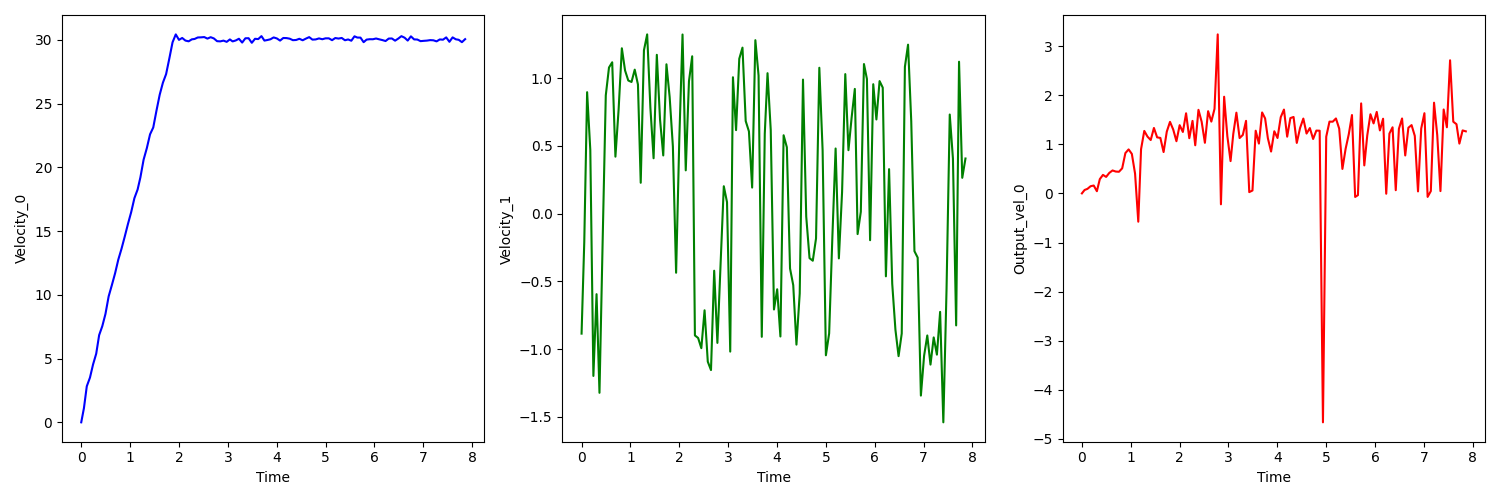
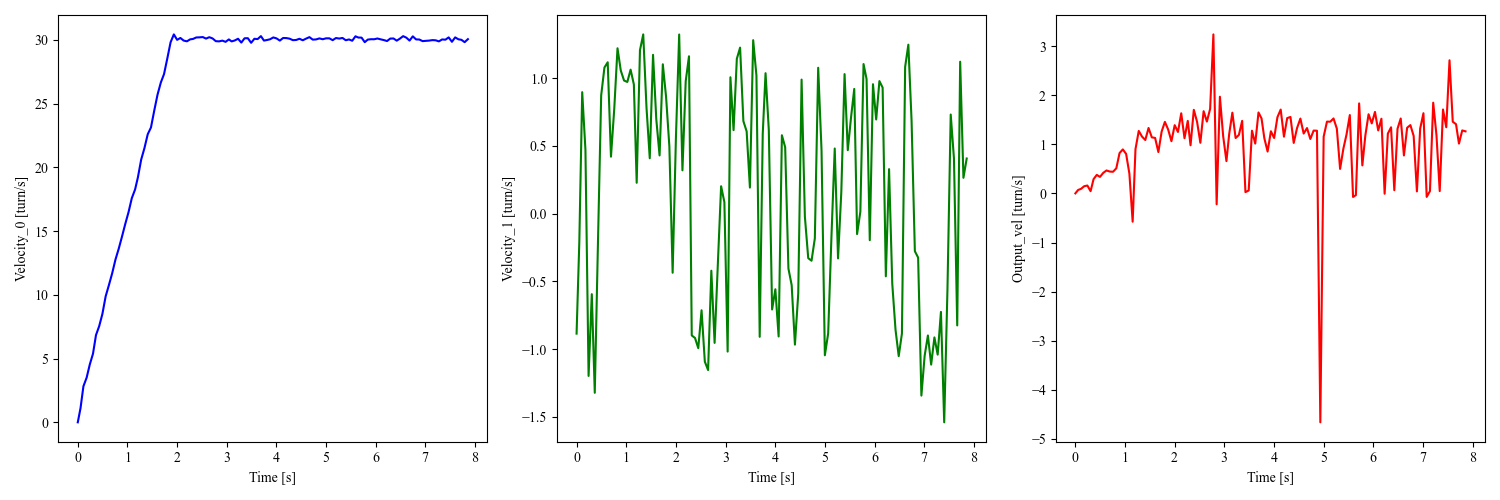
update

diff --git a/ODRIVE_only/202508/plot.py b/ODRIVE_only/202508/plot.py
@@ -7,14 +7,14 @@ from matplotlib import rcParams
 rcParams['font.family'] = 'Times New Roman'
 
 # CSVファイルを読み込む
-csv_file = "csv/two_pos_trac_20250801_1705.csv"  # CSVファイルのパスを指定してください
+csv_file = "csv/two_pos_trac_20250801_1631.csv"  # CSVファイルのパスを指定してください
 data = pd.read_csv(csv_file)
 
 # データを取得
-time = data['time']
-velocity_0 = data['Velocity_0']
-velocity_1 = -data['Velocity_1']
-output_vel_0 = -data['Output_vel_0']
+time = data['time'].to_numpy()
+velocity_0 = data['Velocity_0'].to_numpy()
+velocity_1 = -data['Velocity_1'].to_numpy()
+output_vel_0 = -data['Output_vel_0'].to_numpy()
 
 # 個別プロット
 fig, axes = plt.subplots(1, 3, figsize=(15, 5))  # 横に3つのサブプロットを作成
